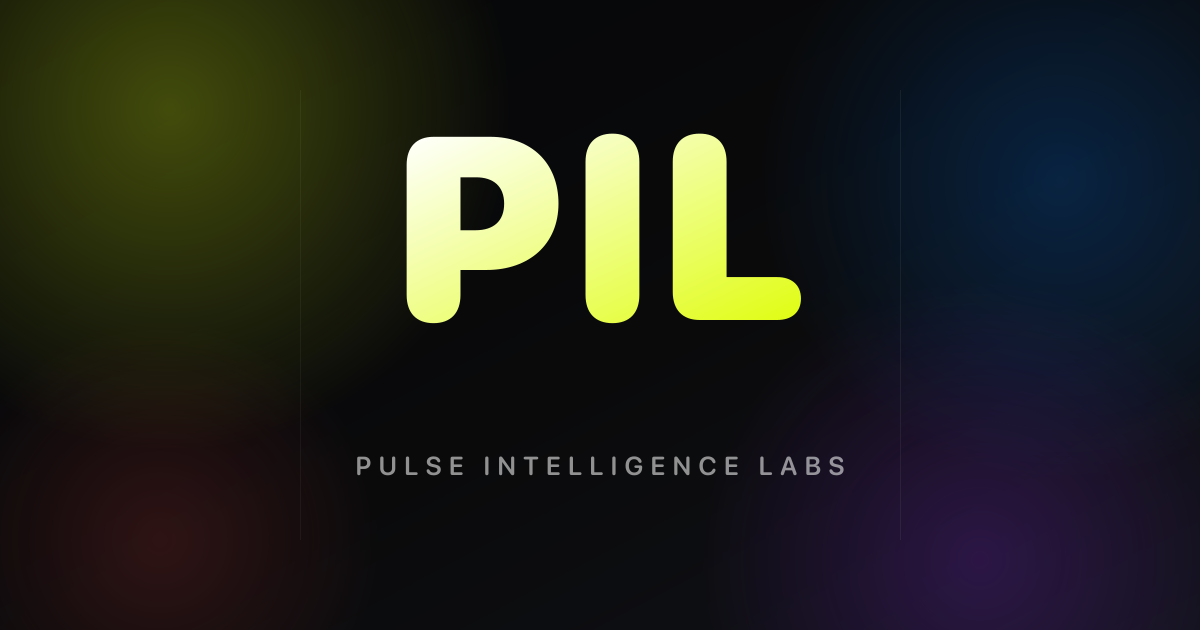
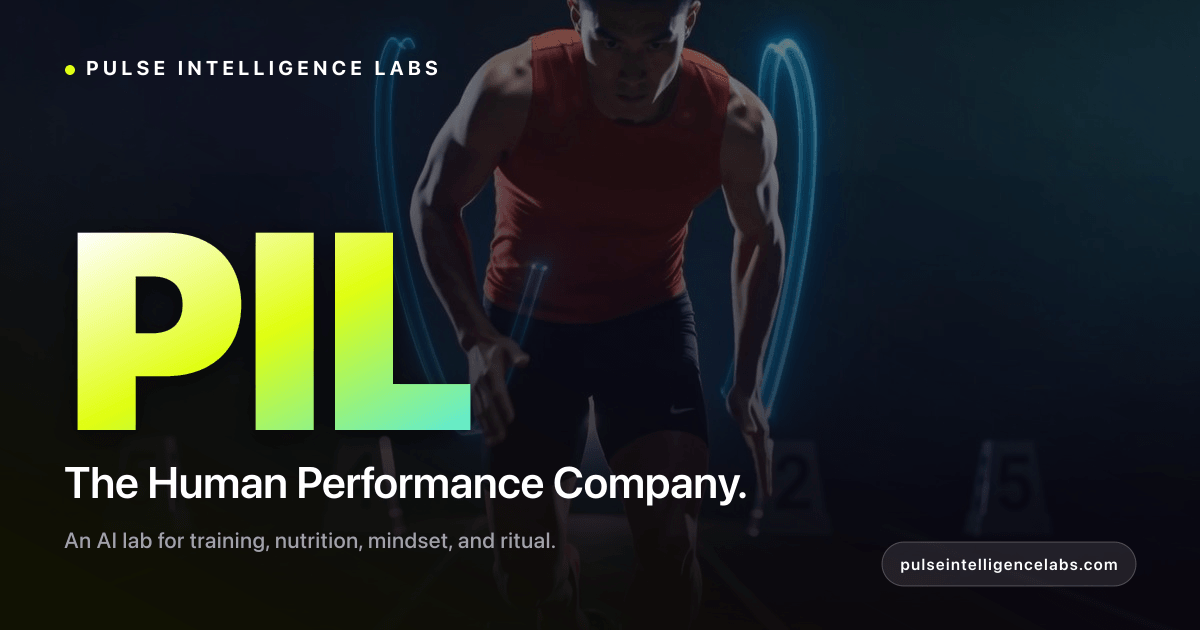
showcase
og image and stuff for showcase site

diff --git a/scripts/generate-pil-og.js b/scripts/generate-pil-og.js
@@ -1,83 +1,162 @@
 /* eslint-disable */
-// One-off script: render the PIL splash to a static PNG at /public/pil-og.png.
-// Run locally on macOS so sharp/librsvg can pick up real system fonts
-// (SF Pro, Helvetica). Ship the resulting PNG as the universal OG default.
+// One-off script: render the Pulse Intelligence Labs OG image at
+// /public/pil-og.png (1200×630). Uses /public/pil-og-source.jpg as the
+// background photo and composites a dark cinematic overlay + the PIL
+// wordmark "The Human Performance Company" on top.
 //
-// Usage: node scripts/generate-pil-og.js
+// Run locally on macOS so sharp/librsvg can pick up real system fonts
+// (SF Pro, Helvetica). Ship the resulting PNG alongside the meta tags.
+//
+// Usage:  node scripts/generate-pil-og.js
+// Swap source: drop a different 1200×630-ish photo at public/pil-og-source.jpg
+//              and re-run.
 
 const path = require('path');
+const fs = require('fs');
 const sharp = require(path.join(__dirname, '..', 'node_modules', 'sharp'));
 
-const ROUNDED_FONT_STACK =
-  "-apple-system, BlinkMacSystemFont, 'SF Pro Rounded', 'SF Pro Display', 'Helvetica Neue', Helvetica, Arial, sans-serif";
+const WIDTH = 1200;
+const HEIGHT = 630;
 
-const svg = `<svg width="1200" height="630" xmlns="http://www.w3.org/2000/svg">
+const SOURCE = path.join(__dirname, '..', 'public', 'pil-og-source.jpg');
+const OUT = path.join(__dirname, '..', 'public', 'pil-og.png');
+
+const FONT_STACK =
+  "-apple-system, BlinkMacSystemFont, 'SF Pro Display', 'Helvetica Neue', Helvetica, Arial, sans-serif";
+
+// Dark cinematic overlay: heavier on the bottom-left where the text sits,
+// fades toward the upper-right so the subject still reads through.
+const overlaySVG = `
+<svg width="${WIDTH}" height="${HEIGHT}" xmlns="http://www.w3.org/2000/svg">
   <defs>
-    <linearGradient id="bg" x1="0%" y1="0%" x2="100%" y2="100%">
-      <stop offset="0%" stop-color="#050608"/>
-      <stop offset="55%" stop-color="#0A0A0B"/>
-      <stop offset="100%" stop-color="#101218"/>
+    <linearGradient id="darkWash" x1="0%" y1="100%" x2="100%" y2="0%">
+      <stop offset="0%"  stop-color="#000000" stop-opacity="0.92"/>
+      <stop offset="45%" stop-color="#000000" stop-opacity="0.55"/>
+      <stop offset="100%" stop-color="#000000" stop-opacity="0.25"/>
     </linearGradient>
-    <linearGradient id="wordmark" x1="0%" y1="0%" x2="100%" y2="100%">
-      <stop offset="0%" stop-color="#FFFFFF"/>
-      <stop offset="100%" stop-color="#DFFD10"/>
+    <linearGradient id="bottomFade" x1="0%" y1="0%" x2="0%" y2="100%">
+      <stop offset="0%"  stop-color="#000000" stop-opacity="0"/>
+      <stop offset="60%" stop-color="#000000" stop-opacity="0.25"/>
+      <stop offset="100%" stop-color="#000000" stop-opacity="0.85"/>
     </linearGradient>
-    <radialGradient id="orbGreen" cx="50%" cy="50%" r="50%">
-      <stop offset="0%" stop-color="#DFFD10" stop-opacity="0.28"/>
-      <stop offset="100%" stop-color="#DFFD10" stop-opacity="0"/>
-    </radialGradient>
-    <radialGradient id="orbBlue" cx="50%" cy="50%" r="50%">
-      <stop offset="0%" stop-color="#007AFF" stop-opacity="0.22"/>
-      <stop offset="100%" stop-color="#007AFF" stop-opacity="0"/>
-    </radialGradient>
-    <radialGradient id="orbPurple" cx="50%" cy="50%" r="50%">
-      <stop offset="0%" stop-color="#8A2BE2" stop-opacity="0.24"/>
-      <stop offset="100%" stop-color="#8A2BE2" stop-opacity="0"/>
-    </radialGradient>
-    <radialGradient id="orbRed" cx="50%" cy="50%" r="50%">
-      <stop offset="0%" stop-color="#EF4444" stop-opacity="0.16"/>
-      <stop offset="100%" stop-color="#EF4444" stop-opacity="0"/>
+    <radialGradient id="vignette" cx="50%" cy="50%" r="75%">
+      <stop offset="55%" stop-color="#000000" stop-opacity="0"/>
+      <stop offset="100%" stop-color="#000000" stop-opacity="0.55"/>
     </radialGradient>
   </defs>
 
-  <rect width="1200" height="630" fill="url(#bg)"/>
-
-  <ellipse cx="170" cy="110" rx="340" ry="340" fill="url(#orbGreen)"/>
-  <ellipse cx="1060" cy="180" rx="300" ry="300" fill="url(#orbBlue)"/>
-  <ellipse cx="980" cy="560" rx="280" ry="280" fill="url(#orbPurple)"/>
-  <ellipse cx="160" cy="540" rx="220" ry="220" fill="url(#orbRed)"/>
-
-  <rect x="300" y="90" width="1" height="450" fill="#FFFFFF" opacity="0.05"/>
-  <rect x="900" y="90" width="1" height="450" fill="#FFFFFF" opacity="0.06"/>
-
-  <text x="600" y="320"
-        font-family="${ROUNDED_FONT_STACK}"
-        font-size="260"
-        font-weight="900"
-        fill="url(#wordmark)"
-        text-anchor="middle"
-        dominant-baseline="central"
-        letter-spacing="8">PIL</text>
-
-  <text x="600" y="475"
-        font-family="${ROUNDED_FONT_STACK}"
-        font-size="26"
-        font-weight="600"
-        fill="#FFFFFF"
-        fill-opacity="0.55"
-        text-anchor="middle"
-        letter-spacing="7">PULSE INTELLIGENCE LABS</text>
+  <rect width="${WIDTH}" height="${HEIGHT}" fill="url(#darkWash)"/>
+  <rect width="${WIDTH}" height="${HEIGHT}" fill="url(#bottomFade)"/>
+  <rect width="${WIDTH}" height="${HEIGHT}" fill="url(#vignette)"/>
 </svg>`;
 
-const outPath = path.join(__dirname, '..', 'public', 'pil-og.png');
+// Brand color wash — very subtle PIL signature gradient sitting on top of
+// the dark overlay. Multiply blend mode would be ideal but sharp uses
+// 'over' compositing, so we just keep alpha low and let it tint.
+const brandWashSVG = `
+<svg width="${WIDTH}" height="${HEIGHT}" xmlns="http://www.w3.org/2000/svg">
+  <defs>
+    <linearGradient id="brandTint" x1="0%" y1="100%" x2="100%" y2="0%">
+      <stop offset="0%"   stop-color="#E0FE10" stop-opacity="0.08"/>
+      <stop offset="50%"  stop-color="#A05EF8" stop-opacity="0.06"/>
+      <stop offset="100%" stop-color="#5EEAD4" stop-opacity="0.06"/>
+    </linearGradient>
+  </defs>
+  <rect width="${WIDTH}" height="${HEIGHT}" fill="url(#brandTint)"/>
+</svg>`;
 
-sharp(Buffer.from(svg))
-  .png({ compressionLevel: 9 })
-  .toFile(outPath)
-  .then((info) => {
-    console.log(`✓ Wrote ${outPath} (${info.width}×${info.height}, ${info.size} bytes)`);
-  })
-  .catch((err) => {
-    console.error('✗ Failed to render PIL OG:', err);
-    process.exit(1);
-  });
+// Foreground text — small wordmark up top, big "PIL" headline, tagline.
+const textSVG = `
+<svg width="${WIDTH}" height="${HEIGHT}" xmlns="http://www.w3.org/2000/svg">
+  <defs>
+    <linearGradient id="pilGradient" x1="0%" y1="0%" x2="100%" y2="100%">
+      <stop offset="0%"   stop-color="#FFFFFF"/>
+      <stop offset="50%"  stop-color="#E0FE10"/>
+      <stop offset="100%" stop-color="#5EEAD4"/>
+    </linearGradient>
+    <filter id="softShadow" x="-10%" y="-10%" width="120%" height="120%">
+      <feDropShadow dx="0" dy="6" stdDeviation="14" flood-color="#000000" flood-opacity="0.6"/>
+    </filter>
+  </defs>
+
+  <!-- Top wordmark -->
+  <g transform="translate(64, 64)">
+    <circle cx="6" cy="6" r="5" fill="#E0FE10"/>
+    <text x="22" y="11"
+          font-family="${FONT_STACK}"
+          font-size="20"
+          font-weight="700"
+          fill="#FFFFFF"
+          letter-spacing="4">PULSE INTELLIGENCE LABS</text>
+  </g>
+
+  <!-- Hero "PIL" mark -->
+  <text x="64" y="430"
+        font-family="${FONT_STACK}"
+        font-size="280"
+        font-weight="800"
+        fill="url(#pilGradient)"
+        letter-spacing="-6"
+        filter="url(#softShadow)">PIL</text>
+
+  <!-- Tagline -->
+  <text x="64" y="498"
+        font-family="${FONT_STACK}"
+        font-size="44"
+        font-weight="600"
+        fill="#FFFFFF"
+        letter-spacing="-0.5">The Human Performance Company.</text>
+
+  <!-- Subline -->
+  <text x="64" y="548"
+        font-family="${FONT_STACK}"
+        font-size="22"
+        font-weight="500"
+        fill="#A1A1AA"
+        letter-spacing="0.2">An AI lab for training, nutrition, mindset, and ritual.</text>
+
+  <!-- URL pill bottom-right -->
+  <g transform="translate(${WIDTH - 318}, ${HEIGHT - 88})">
+    <rect x="0" y="0" rx="22" ry="22" width="254" height="44"
+          fill="#FFFFFF" fill-opacity="0.1"
+          stroke="#FFFFFF" stroke-opacity="0.25" stroke-width="1"/>
+    <text x="127" y="28"
+          font-family="${FONT_STACK}"
+          font-size="16"
+          font-weight="600"
+          fill="#FFFFFF"
+          text-anchor="middle"
+          letter-spacing="1">pulseintelligencelabs.com</text>
+  </g>
+</svg>`;
+
+async function generate() {
+  if (!fs.existsSync(SOURCE)) {
+    throw new Error(
+      `Missing source image: ${SOURCE}. Drop a 1200×630-ish photo there and re-run.`,
+    );
+  }
+
+  // Resize the background to cover 1200×630 (center-crop), then slightly
+  // darken it before compositing the overlays.
+  const background = await sharp(SOURCE)
+    .resize(WIDTH, HEIGHT, { fit: 'cover', position: 'center' })
+    .modulate({ brightness: 0.85, saturation: 1.05 })
+    .toBuffer();
+
+  const info = await sharp(background)
+    .composite([
+      { input: Buffer.from(overlaySVG), top: 0, left: 0 },
+      { input: Buffer.from(brandWashSVG), top: 0, left: 0 },
+      { input: Buffer.from(textSVG), top: 0, left: 0 },
+    ])
+    .png({ compressionLevel: 9, quality: 92 })
+    .toFile(OUT);
+
+  console.log(`✓ Wrote ${OUT} (${info.width}×${info.height}, ${info.size} bytes)`);
+}
+
+generate().catch((err) => {
+  console.error('✗ Failed to render PIL OG:', err);
+  process.exit(1);
+});

diff --git a/src/pages/PIL/apps.tsx b/src/pages/PIL/apps.tsx
@@ -108,6 +108,7 @@ const META_TITLE = 'The Pulse Apps — Pulse Intelligence Labs';
 const META_DESCRIPTION =
   'The Pulse Intelligence Labs app suite — Fit With Pulse, Macra, Pulse Check, and Pulse Ritual. Performance, nutrition, mindset, and daily ritual, all in one place.';
 const META_URL = 'https://pulseintelligencelabs.com/apps';
+const META_OG_IMAGE = 'https://pulseintelligencelabs.com/pil-og.png';
 
 const RitualGlyph: React.FC<{ className?: string }> = ({ className }) => (
   <svg
@@ -250,7 +251,12 @@ const AppsPage: NextPage = () => {
         <meta property="og:description" content={META_DESCRIPTION} />
         <meta property="og:url" content={META_URL} />
         <meta property="og:type" content="website" />
+        <meta property="og:image" content={META_OG_IMAGE} key="og:image" />
+        <meta property="og:image:secure_url" content={META_OG_IMAGE} />
+        <meta property="og:image:width" content="1200" />
+        <meta property="og:image:height" content="630" />
         <meta name="twitter:card" content="summary_large_image" />
+        <meta name="twitter:image" content={META_OG_IMAGE} key="twitter:image" />
       </Head>
 
       <main className="relative min-h-screen overflow-hidden bg-zinc-950 text-white selection:bg-white/20">
@@ -314,6 +320,7 @@ export const getStaticProps: GetStaticProps = async () => ({
     ogMeta: {
       title: META_TITLE,
       description: META_DESCRIPTION,
+      image: META_OG_IMAGE,
       url: META_URL,
       type: 'website',
       siteName: 'Pulse Intelligence Labs',

diff --git a/src/pages/PIL/index.tsx b/src/pages/PIL/index.tsx
@@ -9,6 +9,7 @@ const META_TITLE = 'Pulse Intelligence Labs — The Human Performance Company';
 const META_DESCRIPTION =
   'Pulse Intelligence Labs is an AI lab building the human performance stack — training, nutrition, mindset, and daily ritual — for athletes, coaches, and the people behind them.';
 const META_URL = 'https://pulseintelligencelabs.com';
+const META_OG_IMAGE = 'https://pulseintelligencelabs.com/pil-og.png';
 
 // Hero video lives at /public/pil-hero.mp4. Drop a cinematic sprinter clip
 // there (1080p+, 8–20s loopable, ideally h.264 mp4 + webm transcode).
@@ -94,7 +95,12 @@ const PILPage: NextPage = () => {
         <meta property="og:description" content={META_DESCRIPTION} />
         <meta property="og:url" content={META_URL} />
         <meta property="og:type" content="website" />
+        <meta property="og:image" content={META_OG_IMAGE} key="og:image" />
+        <meta property="og:image:secure_url" content={META_OG_IMAGE} />
+        <meta property="og:image:width" content="1200" />
+        <meta property="og:image:height" content="630" />
         <meta name="twitter:card" content="summary_large_image" />
+        <meta name="twitter:image" content={META_OG_IMAGE} key="twitter:image" />
       </Head>
 
       <main className="relative min-h-screen bg-black text-white selection:bg-white/20">
@@ -391,6 +397,7 @@ export const getStaticProps: GetStaticProps = async () => ({
     ogMeta: {
       title: META_TITLE,
       description: META_DESCRIPTION,
+      image: META_OG_IMAGE,
       url: META_URL,
       type: 'website',
       siteName: 'Pulse Intelligence Labs',